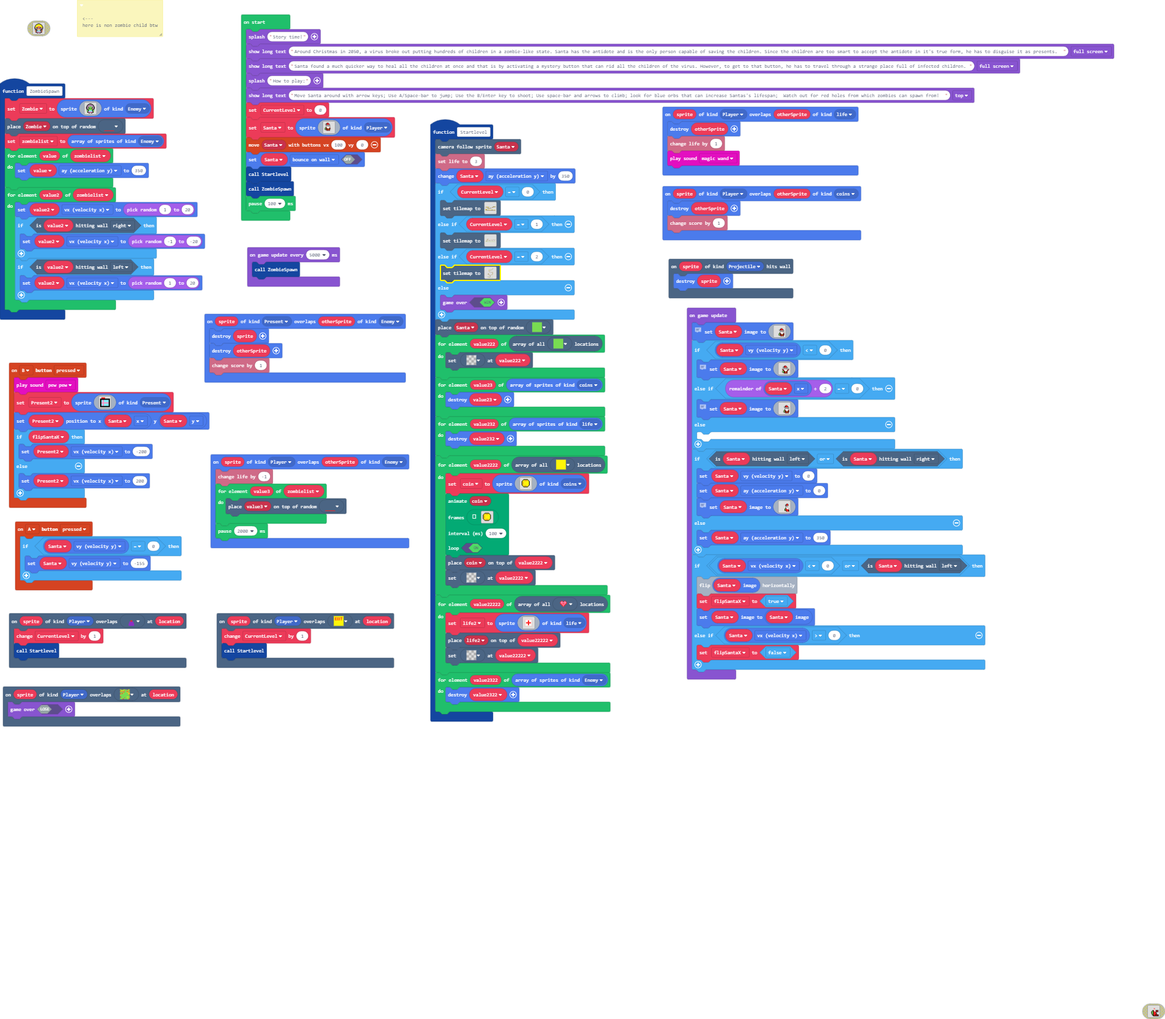
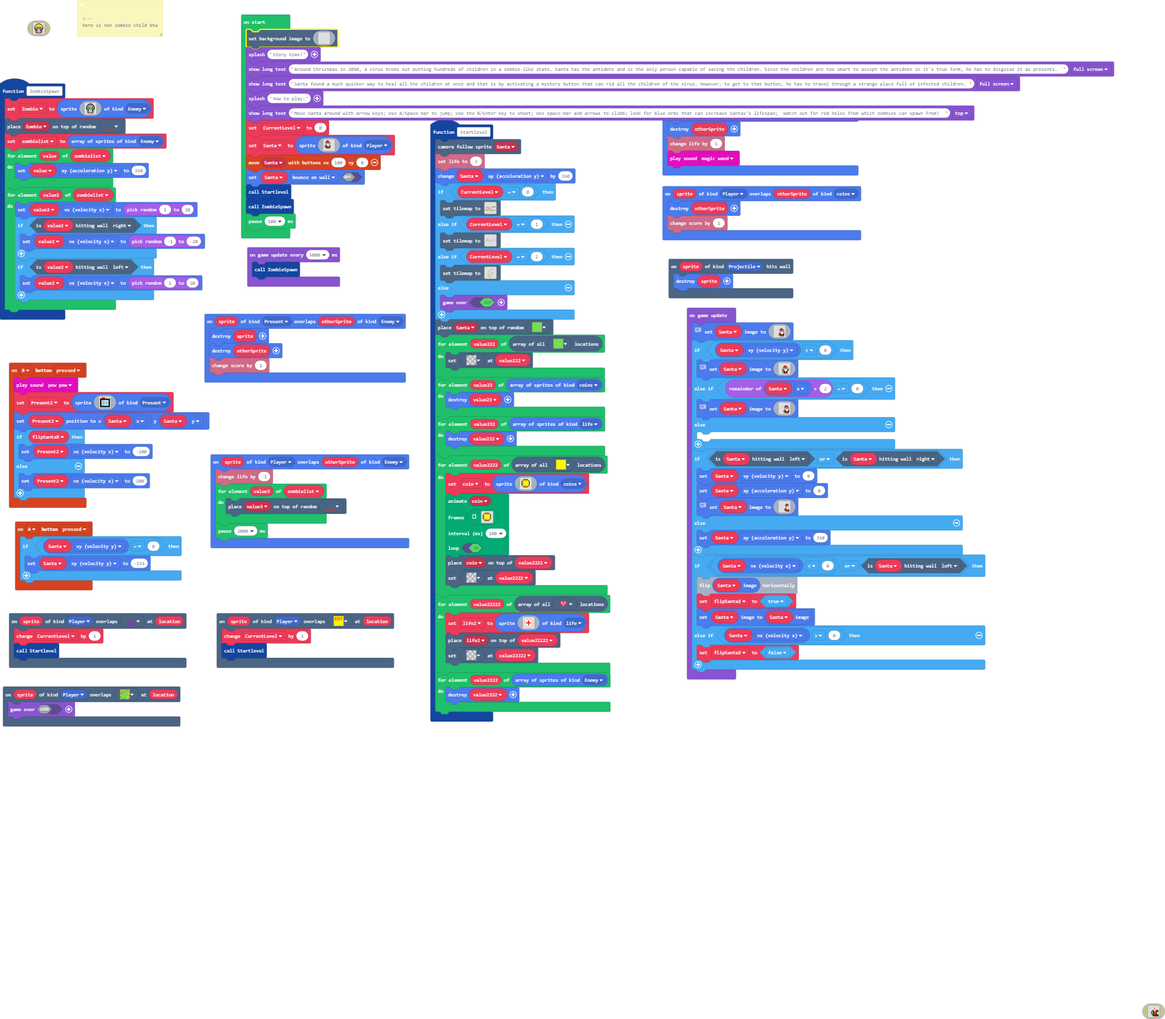
Update main.blocks, main.ts

Changed region(s): [[0.1856, 0.0312, 0.9591, 0.2494]]

diff --git a/main.ts b/main.ts
@@ -650,6 +650,128 @@ let zombielist: Sprite[] = []
 let Zombie: Sprite = null
 let Santa: Sprite = null
 let CurrentLevel = 0
+scene.setBackgroundImage(img`
+. . . . . . . . . . . . . . . . . . . . . . . . . . . . . . . . . . . . . . . . . . . . . . . . . . . . . . . . . . . . . . . . . . . . . . . . . . . . . . . . . . . . . . . . . . . . . . . . . . . . . . . . . . . . . . . . . . . . . . . . . . . . . . . . . . . . . . . . . . . . . . . . . . . . . . . . . . . . . . . . 
+. . . . . . . . . . . . . . . . . . . . . . . . . . . . . . . . . . . . . . . . . . . . . . . . . . . . . . . . . . . . . . . . . . . . . . . . . . . . . . . . . . . . . . . . . . . . . . . . . . . . . . . . . . . . . . . . . . . . . . . . . . . . . . . . . . . . . . . . . . . . . . . . . . . . . . . . . . . . . . . . 
+. . . . . . . . . . . . . . . . . . . . . . . . . . . . . . . . . . . . . . . . . . . . . . . . . . . . . . . . . . . . . . . . . . . . . . . . . . . . . . . . . . . . . . . . . . . . . . . . . . . . . . . . . . . . . . . . . . . . . . . . . . . . . . . . . . . . . . . . . . . . . . . . . . . . . . . . . . . . . . . . 
+. . . . . . . . . . . . . . . . . . . . . . . . . . . . . . . . . . . . . . . . . . . . . . . . . . . . . . . . . . . . . . . . . . . . . . . . . . . . . . . . . . . . . . . . . . . . . . . . . . . . . . . . . . . . . . . . . . . . . . . . . . . . . . . . . . . . . . . . . . . . . . . . . . . . . . . . . . . . . . . . 
+. . . . . . . . . . . . . . . . . . . . . . . . . . . 1 . . . . . . . . . . . . . . . . . . . . . . . . . . . . . . . . . . . . . . . . . . . . . . . . . . . . . . . . . . . . . . . . . . . . . . . . . . . . . . . . . . . . . . . . . . . . . . . . . . . . . . . . . . . . . . . . . . . . . . . . . . . . . . . . . . . . 
+. . . . . . . . . . . . . . . . . . . . . . . . . . . . . . . . . . . . . . . . . . . . . . . . . . . . . . . . . . . . . . . . . . . . . . . . . . . . . . . . . . . . . . . . . . . . . . . . . . . . . . . . . . . . . . . . . . . . . . . . . . . . . . . . . . . . . . . . . . . . . . . . . . . . . . . . . . . . . . . . 
+. . . . . . . . . . . . . . . . . . . . . . . . . . . . . . . . . . . . . . . . . . . . . . . . . . . . . . . . . . . . . . . . . . . . . . . . . . . . . . . . . . . . . . . . . . . . . . . . . . . . . . . . . . . . . . . . . . . . . . . . . . . . . . . . . . . . . . . . . . . . . . . . . . . . . . . . . . . . . . . . 
+. . . . . . . . . . . . . . . . . . . . . . . . . . . . . . . . . . . . . . . . . . . . . . . . . . . . . . . . . . . . . . . . . . . . . . . . . . . . . . . . . . . . . . . . . . . . . . . . . . . . . . . . . . . . . . . . . . . . . . . . . . . . . . . . . . . . . . . . . . . . . . . . . . . . . . . . . . . . . . . . 
+. . . . . . . . . . . . . . . . . . . . . . . . . . . . . . . . . . . . . . . . . . . . . . . . . . . . . . . . . . . . . . . . . . . . . . . . . . . . . . . . . . . . . . . . . . . . . . . . . . . . . . . . . . . 1 . . . . . . . . . . . . . . . . . . . . . . . . . . . . . . . . . . . . . . . . . . . . . . . . . . . . 
+. . . . . . . . . . . . . . . . . . . . . . . . . . . . . . . . . . . . . . . . . . . . . . . . . . . . . . . . . . . . . . . . . . . . . . . . . . . . . . . . . . . . . . . . . . . . . . . . . . . . . . . . . . . . . . . . . . . . . . . . . . . . . . . . . . . . . . . . . . . . . . . . . . . . . . . . . . . . . . . . 
+. . . . . . . . . . . . . . . . . . . . . . . . . . . . . . . . . . . . . . . . . . . . . . . . . . . . . . . . . . . . . . . . . . . . . . . . . . . . . . . . . . . . . . . . . . . . . . . . . . . . . . . . . . . . . . . . . . . . . . . . . . . . . . . . . . . . . . . . . . . . . . . . . . . . . . . . . . . . . . . . 
+. . . . . . . . . . . . . . . . . . . . . . . . . . . . . . . . . . . . . . . . . . . . . . . . . . . . . . . . . . . . . . . . . . . . . . . . . . . . . . . . . . . . . . . . . . . . . . . . . . . . . . . . . . . . . . . . . . . . . . . . . . . . . . . . . . . . . . . . . . . . . . . . . . . . . . . . . . . . . . . . 
+. . . . . . . . . . . . . . . . . . . . . . . . . . . . . . . . . . . . . . . . . . . . . . . . . . . . . . . . . . . . . . . . . . . . . . . . . . . . . . . . . . . . . . . . . . . . . . . . . . . . . . . . . . . . . . . . . . . . . . . . . . . . . . . . . . . . . . . . . . . . . . . . . . . . . . . . . . . . . . . . 
+. . . . . . . . . . . . . . . . . . . . . . . . . . . . . . . . . . . . . . . . . . . . . . . . . . . . . . . . . . . . . . . . . . . . . . . . . . . . . . . . . . . . . . . . . . . . . . . . . . . . . . . . . . . . . . . . . . . . . . . . . . . . . . . . . . . . . . . . . . . . . . . . . . . . . . . . 1 . . . . . . . 
+. . . . . . . . . . . . . . . . . . . . . . . . . . . . . . . . . . . . . . . . . . . . . . . . . . . . . . . . . . . . . . . . . . . . . . . . . . . . . . . . . . . . . . . . . . . . . . . . . . . . . . . . . . . . . . . . . . . . . . . . . . . . . . . . . . . . . . . . . . . . . . . . . . . . . . . . . . . . . . . . 
+. . . . . . . . . . . . . . . . . . . . . . . . . . . . . . . . . . . . . . . . . . . . . . . . . . . . . . . . . . . . . . . . . . . . . . . . . . . . . . . . . . . . . . . . . . . . . . . . . . . . . . . . . . . . . . . . . . . . . . . . . . . . . . . . . . . . . . . . . . . . . . . . . . . . . . . . . . . . . . . . 
+. . . . . . . . . . . . . . . . . . . . . . . . . . . . . . . . . . . . . . . . . . . . . . . . . . . . . . . . . . . . . . . . . . . . . . . . . . . . . . . . . . . . . . . . . . . . . . . . . . . . . . . . . . . . . . . . . . . . . . . . . . . . . . . . . . . . . . . . . . . . . . . . . . . . . . . . . . . . . . . . 
+. . . . . . . . . . . . . . . . . . . . . . . . . . . . . . . . . . . . . . . . . . . . . . . . . . . . . . . . . . . . . . . . . . . . . . . . . . . . . . . . . . . . . . . . . . . . . . . . . . . . . . . . . . . . . . . . . . . . . . . . . . . . . . . . . . . . . . . . . . . . . . . . . . . . . . . . . . . . . . . . 
+. . . . . . . . . . . . . . . . . . . . . . . . . . . . . . . . . . . . . . . . . . . . . . . . . . . . . . . . . . . . . . . . . . . . . . . . . . . . . . . . . . . . . . . . . . . . . . . . . . . . . . . . . . . . . . . . . . . . . . . . . . . . . . . . . . . . . . . . . . . . . . . . . . . . . . . . . . . . . . . . 
+. . . . . . . . . . . . . . . . . . . . . . . . . . . . . . . . . . . . . . . . . . . . . . . . . . . . . . . . . . . . . . . . . . . . . . 1 . . . . . . . . . . . . . . . . . . . . . . . . . . . . . . . . . . . . . . . . . . . . . . . . . . . . . . . . . . . . . . . . . . . . . . . . . . . . . . . . . . . . . . . . . 
+. . . . . . . . . . . . . . . . . . . . . . . . . . . . . . . . . . . . . . . . . . . . . . . . . . . . . . . . . . . . . . . . . . . . . . . . . . . . . . . . . . . . . . . . . . . . . . . . . . . . . . . . . . . . . . . . . . . . . . . . . . . . . . . . . . . . . . . . . . . . . . . . . . . . . . . . . . . . . . . . 
+. . . . . . . . . . . . . . . . . . . . . . . . . . . . . . . . . . . . . . . . . . . . . . . . . . . . . . . . . . . . . . . . . . . . . . . . . . . . . . . . . . . . . . . . . . . . . . . . . . . . . . . . . . . . . . . . . . . . . . . . . . . . . . . . . . . . . . . . . . . . . . . . . . . . . . . . . . . . . . . . 
+. . . . . . . . . . . . . . . . . . . . . . . . . . . . . . . . . . . . . . . . . . . . . . . . . . . . . . . . . . . . . . . . . . . . . . . . . . . . . . . . . . . . . . . . . . . . . . . . . . . . . . . . . . . . . . . . . . . . . . . . . . . . . . . . . . . . . . . . . . . . . . . . . . . . . . . . . . . . . . . . 
+. . . . . . . . . . . . . . . 1 . . . . . . . . . . . . . . . . . . . . . . . . . . . . . . . . . . . . . . . . . . . . . . . . . . . . . . . . . . . . . . . . . . . . . . . . . . . . . . . . . . . . . . . . . . . . . . . . . . . . . . . . . . . . . . . . . . . . . . . . . . . . . . . . . . . . . . . . . . . . . . . . 
+. . . . . . . . . . . . . . . . . . . . . . . . . . . . . . . . . . . . . . . . . . . . . . . . . . . . . . . . . . . . . . . . . . . . . . . . . . . . . . . . . . . . . . . . . . . . . . . . . . . . . . . . . . . . . . . . . . . . . . . . . . . . . . . . . . . . . . . . . . . . . . . . . . . . . . . . . . . . . . . . 
+. . . . . . . . . . . . . . . . . . . . . . . . . . . . . . . . . . . . . . . . . . . . . . . . . . . . . . . . . . . . . . . . . . . . . . . . . . . . . . . . . . . . . . . . . . . . . . . . . . . . . . . . . . . . . . . . . . . . . . . . . . . . . . . . . . . . . . . . . . . . . . . . . . . . . . . . . . . . . . . . 
+. . . . . . . . . . . . . . . . . . . . . . . . . . . . . . . . . . . . . . . . . . . . . . . . . . . . . . . . . . . . . . . . . . . . . . . . . . . . . . . . . . . . . . . . . . . . . . . . . . . . . . . . . . . . . . . . . . . . . . . . . . . . . . . . . . . . . . . . . . . . . . . . . . . . . . . . . . . . . . . . 
+. . . . . . . . . . . . . . . . . . . . . . . . . . . . . . . . . . . . . . . . . . . . . . . . . . . . . . . . . . . . . . . . . . . . . . . . . . . . . . . . . . . . . . . . . . . . . . . . . . . . . . . . . . . . . . . . . . . . . . . . . . . . . . . . . . . . . . . . . . . . . . . . . . . . . . . . . . . . . . . . 
+. . . . . . . . . . . . . . . . . . . . . . . . . . . . . . . . . . . . . . . . . . 1 . . . . . . . . . . . . . . . . . . . . . . . . . . . . . . . . . . . . . . . . . . . . . . . . . . . . . . . . . . . . . . . . . . . . . . . . . . . . . . . . . . . . . . . . . . . . . . . . . . . . . . . . . . . . . . . . . . . . . 
+. . . . . . . . . . . . . . . . . . . . . . . . . . . . . . . . . . . . . . . . . . . . . . . . . . . . . . . . . . . . . . . . . . . . . . . . . . . . . . . . . . . . . . . . . . . . . . . . . . . . . . . . . . . . . . . . . . . . . . . . . . . . . . . . . . . . . . . . . . . . . . . . . . . . . . . . . . . . . . . . 
+. . . . . . . . . . . . . . . . . . . . . . . . . . . . . . . . . . . . . . . . . . . . . . . . . . . . . . . . . . . . . . . . . . . . . . . . . . . . . . . . . . . . . . . . . . . . . . . . . . . . . . . . . . . . . . . . . . . . . . . . . . . . . . . . . . . . . . . . . . . . . . . . . . . . . . . . . . . . . . . . 
+. . . . . . . . . . . . . . . . . . . . . . . . . . . . . . . . . . . . . . . . . . . . . . . . . . . . . . . . . . . . . . . . . . . . . . . . . . . . . . . . . . . . . . . . . . . . . . . . . . . . . . . . . . . . . . . . . . . . . . . . . . . . . . . . . . . . . . . . . . . . . . . . . . . . . . . . . . . . . . . . 
+. . . . . . . . . . . . . . . . . . . . . . . . . . . . . . . . . . . . . . . . . . . . . . . . . . . . . . . . . . . . . . . . . . . . . . . . . . . . . . . . . . . . . . . . . . . . . . . . . . . . . . . . . . . . . . . . . . . . . . . . . . . . . . . . . . . . . . . . . . . . . . . . . . . . . . . . . . . . . . . . 
+. . . . . . . . . . . . . . . . . . . . . . . . . . . . . . . . . . . . . . . . . . . . . . . . . . . . . . . . . . . . . . . . . . . . . . . . . . . . . . . . . . . . . . . . . . . . . . . . . . . . . . . . . . . . . . . . . . . . . . . . . . . . . . . . . . . . . . . . . . . . . . . . . . . . . . . . . . . . . . . . 
+. . . . . . . . . . . . . . . . . . . . . . . . . . . . . . . . . . . . . . . . . . . . . . . . . . . . . . . . . . . . . . . . . . . . . . . . . . . . . . . . . . . . . . . . . . . . . . . . . . . . . . . . . . . . . . . . . . . . . . . . . . . . . . . . . . . . . . . . . . . . . . . . . . . . . . . . . . . . . . . . 
+. . . . . . . . . . . . . . . . . . . . . . . . . . . . . . . . . . . . . . . . . . . . . . . . . . . . . . . . . . . . . . . . . . . . . . . . . . . . . . . . . . . . . . . . . . . . . . . . . . . . . . . . . . . . . . . . . . . . . . . . . . . . . . . . . . . . . . . . . . . . . . . . . . . . . . . . . . . . . . . . 
+. . . . . . . . . . . . . . . . . . . . . . . . . . . . . . . . . . . . . . . . . . . . . . . . . . . . . . . . . . . . . . . . . . . . . . . . . . . . . . . . . . . . . . . . . . . . . . . . . . . . . . . . . . . . . . . . . . . . . . . . . . . . . . . . . . . . . . . . . . . . . . . . . . . . . . . . . . . . . . . . 
+. . . . . . . . . . . . . . . . . . . . . . . . . . . . . . . . . . . . . . . . . . . . . . . . . . . . . . . . . . . . . . . . . . . . . . . . . . . . . . . . . . . . . . . . . . . . . . . . . . . . . . . . . . . . . . . . . . . . 1 . . . . . . . . . . . . . . . . . . . . . . . . . . . . . . . . . . . . . . . . . . . 
+. . . . . . . . . . . . . . . . . . . . . . . . . . . . . . . . . . . . . . . . . . . . . . . . . . . . . . . . . . . . . . . . . . . . . . . . . . . . . . . . . . . . . . . . . . . . . . . . . . . . . . . . . . . . . . . . . . . . . . . . . . . . . . . . . . . . . . . . . . . . . . . . . . . . . . . . . . . . . . . . 
+. . . . . . . . . . . . . . . . . . . . . . . . . . . . . . . . . . . . . . . . . . . . . . . . . . . . . . . . . . . . . . . . . . . . . . . . . . . . . . . . . . . . . . . . . . . . . . . . . . . . . . . . . . . . . . . . . . . . . . . . . . . . . . . . . . . . . . . . . . . . . . . . . . . . . . . . . . . . . . . . 
+. . . . . . . . . . . . . . . . . . . . . . . . . . . . . . . . . . . . . . . . . . . . . . . . . . . . . . . . . . . . . . . . . . . . . . . . . . . . . . . . . . . . . . . . . . . . . . . . . . . . . . . . . . . . . . . . . . . . . . . . . . . . . . . . . . . . . . . . . . . . . . . . . . . . . . . . . . . . . . . . 
+. . . . . . . . . . . . . . . . . . . . . . . . . . . . . . . . . . . . . . . . . . . . . . . . . . . . . . . . . . . . . . . . . . . . . . . . . . . . . . . . . . . . . . . . . . . . . . . . . . . . . . . . . . . . . . . . . . . . . . . . . . . . . . . . . . . . . . . . . . . . . . . . . . . . . . . . . . . . . . . . 
+. . . . . . . . . . . . . . . . . . . . . . . . . . . . . . . . . . . . . . . . . . . . . . . . . . . . . . . . . . . . . . . . . . . . . 1 . . . . . . . . . . . . . . . . . . . . . . . . . . . . . . . . . . . . . . . . . . . . . . . . . . . . . . . . . . . . . . . . . . . . . . . . . . . . . . . . . . . . . . . . . . 
+. . . . . . . . . . . . . . . . . . . . . . . . . . . . . . . . . . . . . . . . . . . . . . . . . . . . . . . . . . . . . . . . . . . . . . . . . . . . . . . . . . . . . . . . . . . . . . . . . . . . . . . . . . . . . . . . . . . . . . . . . . . . . . . . . . . . . . . . . . . . . . . . . . . . . . . . . . . . . . . . 
+. . . . . . . . . . . . . . . . . . . . . . . . . . . . . . . . . . . . . . . . . . . . . . . . . . . . . . . . . . . . . . . . . . . . . . . . . . . . . . . . . . . . . . . . . . . . . . . . . . . . . . . . . . . . . . . . . . . . . . . . . . . . . . . . . . . . . . . . . . . . . . . . . . . . . . . . . . . . . . . . 
+. . . . . . . . . . . . . . . . . . . . . . . . . . . . . . . . . . . . . . . . . . . . . . . . . . . . . . . . . . . . . . . . . . . . . . . . . . . . . . . . . . . . . . . . . . . . . . . . . . . . . . . . . . . . . . . . . . . . . . . . . . . . . . . . . . . . . . . . . . . . . . . . . . . . . . . . . . . . . . . . 
+. . . . . . . . . . . . . . . . . . . . . . . . . . . . . . . . . . . . . . . . . . . . . . . . . . . . . . . . . . . . . . . . . . . . . . . . . . . . . . . . . . . . . . . . . . . . . . . . . . . . . . . . . . . . . . . . . . . . . . . . . . . . . . . . . . . . . . . . . . . . . . . . . . . . . . . . . . . . . . . . 
+. . . . . . . . . . . . . . . . . . . . . . . . . . . . . . . . . . . . . . . . . . . . . . . . . . . . . . . . . . . . . . . . . . . . . . . . . . . . . . . . . . . . . . . . . . . . . . . . . . . . . . . . . . . . . . . . . . . . . . . . . . . . . . . . . . . . . . . . . . . . . . . . . . . . . . . . . . . . . . . . 
+. . . . . . . . . . . . . . . . . . . . . . . . . . . . . . . . . . . . . . . . . . . . . . . . . . . . . . . . . . . . . . . . . . . . . . . . . . . . . . . . . . . . . . . . . . . . . . . . . . . . . . . . . . . . . . . . . . . . . . . . . . . . . . . . . . . . . . . . . . . . . . . . . . . . . . . . . . . . . . . . 
+. . . . . . . . . . . . . . . . . . . . . . . . . . . . . . . . . . . . . . . . . . . . . . . . . . . . . . . . . . . . . . . . . . . . . . . . . . . . . . . . . . . . . . . . . . . . . . . . . . . . . . . . . . . . . . . . . . . . . . . . . . . . . . . . . . . . . . . . . . . . . . . . . . . . . . . . . . . . . . . . 
+. . . . . . . . . . . . . . . . . . . . . . . . . . . . . . . . . . . . . . . . . . . . . . . . . . . . . . . . . . . . . . . . . . . . . . . . . . . . . . . . . . . . . . . . . . . . . . . . . . . . . . . . . . . . . . . . . . . . . . . . . . . . . . . . . . . . . . . . . . . . . . . . . . . . . . . . . . . . . . . . 
+. . . . . . . . . . . . . . . . . . . . . . . . . . . . . . . . . . . . . . . . . . . . . . . . . . . . . . . . . . . . . . . . . . . . . . . . . . . . . . . . . . . . . . . . . . . . . . . . . . . . . . . . . . . . . . . . . . . . . . . . . . . . . . . . . . . . . . . . . . . . . . . . . . . . . . . . . . . . . . . . 
+. . . . . . . . . . . . . . . . . . . . . . . . . . . . . . . . . . . . . . . . . . . . . . . . . . . . . . . . . . . . . . . . . . . . . . . . . . . . . . . . . . . . . . . . . . . . . . . . . . . . . . . . . . . . . . . . . . . . . . . . . . . . . . . . . . . . . . . . . . . . . . . . . . . . . . . . . . . . . . . . 
+. . 1 . . . . . . . . . . . . . . . . . . . . . . . . . . . . . . . . . . . . . . . . . . . . . . . . . . . . . . . . . . . . . . . . . . . . . . . . . . . . . . . . . . . . . . . . . . . . . . . . . . . . . . . . . . . . . . . . . . . . . . . . . . . . . . . . . . . . . . . . . . . . . . . . . . . . . . . . . . . . . 
+. . . . . . . . . . . . . . . . . . . . . . . . . . . . . . . . . . . . . . . . . . . . . . . . . . . . . . . . . . . . . . . . . . . . . . . . . . . . . . . . . . . . . . . . . . . . . . . . . . . . . . . . . . . . . . . . . . . . . . . . . . . . . . . . . . . . . . . . . . . . . . . . . . . . . . . . . . . . . . . . 
+. . . . . . . . . . . . . . . . . . . . . . . . . . . . . . . . . . . . . . . . . . . . . . . . . . . . . . . . . . . . . . . . . . . . . . . . . . . . . . . . . . . . . . . . . . . . . . . . . . . . . . . . . . . . . . . . . . . . . . . . . . . . . . . . . . . . . . . . . . . . . . . . . . . . . . . . . . . . . . . . 
+. . . . . . . . . . . . . . . . . . . . . . . . . . . . . . . . . . . . . . . . . . . . . . . . . . . . . . . . . . . . . . . . . . . . . . . . . . . . . . . . . . . . . . . . . . . . . . . . . . . . . . . . . . . . . . . . . . . . . . . . . . . . . . . . . . . . . . . . . . . . . . . . . . . . . . . . . . . . . . . . 
+. . . . . . . . . . . . . . . . . . . . . . . . . . . . . . . . . . . . . . . . . . . . . . . . . . . . . . . . . . . . . . . . . . . . . . . . . . . . . . . . . . . . . . . . . . . . . . . . . . . . . . . . . . . . . . . . . . . . . . . . . . . . . . . . . . . . . . . . . . . . . . . . . . . . . . . . . . . . . . . . 
+. . . . . . . . . . . . . . . . . . . . . . . . . . . . . . . . . . . . . . . . . . . . . . . . . . . . . . . . . . . . . . . . . . . . . . . . . . . . . . . . . . . . . . . . . . . . . . . . . . . . . . . . . . . . . . . . . . . . . . . . . . . . . . . . . . . . . . . . . . . . . . . . . . . . . . . . . . . . . . . . 
+. . . . . . . . . . . . . . . . . . . . . . . . . . . . . 1 . . . . . . . . . . . . . . . . . . . . . . . . . . . . . . . . . . . . . . . . . . . . . . . . . . . . . . . . . . . . . . . . . . . . . . . . . . . . . . . 1 . . . . . . . . . . . . . . . . . . . . . . . . . . . . . . . . . . . . . . . . . . . . . . . . . . 
+. . . . . . . . . . . . . . . . . . . . . . . . . . . . . . . . . . . . . . . . . . . . . . . . . . . . . . . . . . . . . . . . . . . . . . . . . . . . . . . . . . . . . . . . . . . . . . . . . . . . . . . . . . . . . . . . . . . . . . . . . . . . . . . . . . . . . . . . . . . . . . . . . . . . . . . . . . . . . . . . 
+. . . . . . . . . . . . . . . . . . . . . . . . . . . . . . . . . . . . . . . . . . . . . . . . . . . . . . . . . . . . 1 . . . . . . . . . . . . . . . . . . . . . . . . . . . . . . . . . . . . . . . . . . . . . . . . . . . . . . . . . . . . . . . . . . . . . . . . . . . . . . . . . . . . . . . . . . . . . . . . . . . 
+. . . . . . . . . . . . . . . . . . . . . . . . . . . . . . . . . . . . . . . . . . . . . . . . . . . . . . . . . . . . . . . . . . . . . . . . . . . . . . . . . . . . . . . . . . . . . . . . . . . . . . . . . . . . . . . . . . . . . . . . . . . . . . . . . . . . . . . . . . . . . . . . . . . . . . . . . . . . . . . . 
+. . . . . . . . . . . . . . . . . . . . . . . . . . . . . . . . . . . . . . . . . . . . . . . . . . . . . . . . . . . . . . . . . . . . . . . . . . . . . . . . . . . . . . . . . . . . . . . . . . . . . . . . . . . . . . . . . . . . . . . . . . . . . . . . . . . . . . . . . . . . . . . . . . . . . . . . . . . . . . . . 
+. . . . . . . . . . . . . . . . . . . . . . . . . . . . . . . . . . . . . . . . . . . . . . . . . . . . . . . . . . . . . . . . . . . . . . . . . . . . . . . . . . . . . . . . . . . . . . . . . . . . . . . . . . . . . . . . . . . . . . . . . . . . . . . . . . . . . . . . . . . . . . . . . . . . . . . . . . . . . . . . 
+. . . . . . . . . . . . . . . . . . . . . . . . . . . . . . . . . . . . . . . . . . . . . . . . . . . . . . . . . . . . . . . . . . . . . . . . . . . . . . . . . . . . . . . . . . . . . . . . . . . . . . . . . . . . . . . . . . . . . . . . . . . . . . . . . . . . . . . . . . . . . . . . . . . . . . . . . . . . . . . . 
+. . . . . . . . . . . . . . . . . . . . . . . . . . . . . . . . . . . . . . . . . . . . . . . . . . . . . . . . . . . . . . . . . . . . . . . . . . . . . . . . . . . . . . . . . . . . . . . . . . . . . . . . . . . . . . . . . . . . . . . . . . . . . . . . . . . . . . . . . . . . . . . . . . . . . . . . . . . . . . . . 
+. . . . . . . . . . . . . . . . . . . . . . . . . . . . . . . . . . . . . . . . . . . . . . . . . . . . . . . . . . . . . . . . . . . . . . . . . . . . . . . . . . . . . . . . . . . . . . . . . . . . . . . . . . . . . . . . . . . . . . . . . . . . . . . . . . . . . . . . . . . . . . . . . . . . . . . . . . . . . . . . 
+. . . . . . . . . . . . . . . . . . . . . . . . . . . . . . . . . . . . . . . . . . . . . . . . . . . . . . . . . . . . . . . . . . . . . . . . . . . . . . . . . . . . . . . . . . . . . . . . . . . . . . . . . . . . . . . . . . . . . . . . . . . . . . . . . . . . . . . . . . . . . . . . . . . . . . . . . . . . . . . . 
+. . . . . . . . . . . . . . . . . . . . . . . . . . . . . . . . . . . . . . . . . . . . . . . . . . . . . . . . . . . . . . . . . . . . . . . . . . . . . . . . . . . . . . . . . . . . . . . . . . . . . . . . . . . . . . . . . . . . . . . . . . . . . . . . . . . . . . . . . . . . . . . . . . . . . . . . . . . . . . . . 
+. . . . . . . . . . . . . . . . . . . . . . . . . . . . . . . . . . . . . . . . . . . . . . . . . . . . . . . . . . . . . . . . . . . . . . . . . . . . . . . . . . . . . . . . . . . . . . . . . . . . . . . . . . . . . . . . . . . . . . . . . . . . . . . . . . . . . . . . . . . . . . . . . . . . . . . . . . . . . . . . 
+. . . . . . . . . . . . . . . . . . . . . . . . . . . . . . . . . . . . . . . . . . . . . . . . . . . . . . . . . . . . . . . . . . . . . . . . . . . . . . . . . . . . . . . . . . . . . . . . . . . . . . . . . . . . . . . . . . . . . . . . . . . . . . . . . . . . . . . . . . . . . . . . . . . . . . . . . . . . . . . . 
+. . . . . . . . . . . . . . . . . . . . . . . . . . . . . . . . . . . . . . . . . . . . . . . . . . . . . . . . . . . . . . . . . . . . . . . . . . . . . . . . . . . . . . . . . . . . . . . . . . . . . . . . . . . . . . . . . . . . . . . . . . . . . . . . . . . . . . . . . . . . . . . . . . . . . . . . . . . . . . . . 
+. . . . . . . . . . . . . . . . . . . . . . . . . . . . . . . . . . . . . . . . . . . . . . . . . . . . . . . . . . . . . . . . . . . . . . . . . . . . . . . . . . . . . . . . . . . . . . . . . . . . . . . . . . . . . . . . . . . . . . . . . . . . . . . . . . . . . . . . . . . . . . . . . . . . . . . . . . . . . . . . 
+. . . . . . . . . . . . . . . . . . . . . . . . . . . . . . . . . . . . . . . . . . . . . . . . . . . . . . . . . . . . . . . . . . . . . . . . . . . . . . . . . . . . . . . . . . . . . . . . . . . . . . . . . . . . . . . . . . . . . . . . . . . . . . . . . . . . . . . . . . . . . . . . . . . . . . . . . . . . . . . . 
+. . . . . . . . . . . . . . . . . . . . . . . . . . . . . . . . . . . . . . . . . . . . . . . . . . . . . . . . . . . . . . . . . . . . . . . . . . . . . . . . . . . . . . . . . . . . . . . . . . . . . . . . . . . . . . . . . . . . . . . . . . . . . . . . . . . . . . . . . . . . . . . . . . . . . . . . . . . . . . . . 
+. . . . . . . . . . . . . . . . . . . . . . . . . . . . . . . . . . . . . . . . . . . . . . . . . . . . . . . . . . . . . . . . . . . . . . . . . . . . . . . . . . . . . . . . . . . . . . . . . . . . . . . . . . . . . . . . . . . . . . . . . . . . . . . . . . . . . . . . . . . . . 1 . . . . . . . . . . . . . . . . . . 
+. . . . . . . . . . . . . . . . . . . . . . . . . . . . . . . . . . . . . . . . . . . . . . . . . . . . . . . . . . . . . . . . . . . . . . . . . . . . . . . . . . . . . . . . . . . . . . . . . . . . . . . . . . . . . . . . . . . . . . . . . . . . . . . . . . . . . . . . . . . . . . . . . . . . . . . . . . . . . . . . 
+. . . . . . . . . . . . . . . . . . . . . . . . . . . . . . . . . . . . . . . . . . . . . . . . . . . . . . . . . . . . . . . . . . . . . . . . . . . . . . . . . . . . . . 1 . . . . . . . . . . . . . . . . . . . . . . . . . . . . . . . . . . . . . . . . . . . . . . . . . . . . . . . . . . . . . . . . . . . . . . . . . 
+. . . . . . . . . . . . . . . . . . . . . . . . . . . . . . . . . . . . . . . . . . . . . . . . . . . . . . . . . . . . . . . . . . . . . . . . . . . . . . . . . . . . . . . . . . . . . . . . . . . . . . . . . . . . . . . . . . . . . . . . . . . . . . . . . . . . . . . . . . . . . . . . . . . . . . . . . . . . . . . . 
+. . . . . . . . . . . . . . . . . . . . . . . . . . . . . . . . . . . . . . . . . . . . . . . . . . . . . . . . . . . . . . . . . . . . . . . . . . . . . . . . . . . . . . . . . . . . . . . . . . . . . . . . . . . . . . . . . . . . . . . . . . . . . . . . . . . . . . . . . . . . . . . . . . . . . . . . . . . . . . . . 
+. . . . . . . . . . . . . . . . . . . . . . . . . . . . . . . . . . . . . . . . . . . . . . . . . . . . . . . . . . . . . . . . . . . . . . . . . . . . . . . . . . . . . . . . . . . . . . . . . . . . . . . . . . . . . . . . . . . . . . . . . . . . . . . . . . . . . . . . . . . . . . . . . . . . . . . . . . . . . . . . 
+. . . . . . . . . . . . . . . . . . . . . . . . . . . . . . . . . . . . . . . . . . . . . . . . . . . . . . . . . . . . . . . . . . . . . . . . . . . . . . . . . . . . . . . . . . . . . . . . . . . . . . . . . . . . . . . . . . . . . . . . . . . . . . . . . . . . . . . . . . . . . . . . . . . . . . . . . . . . . . . . 
+. . . . . . . . . . . . . . . . . . . . . . . . . . . . . . . . . . . . . . . . . . . . . . . . . . . . . . . . . . . . . . . . . . . . . . . . . . . . . . . . . . . . . . . . . . . . . . . . . . . . . . . . . . . . . . . . . . . . . . . . . . . . . . . . . . . . . . . . . . . . . . . . . . . . . . . . . . . . . . . . 
+. . . . . . . . . . . . . . . . . . . . . . . . . . . . . . . . . . . . . . . . . . . . . . . . . . . . . . . . . . . . . . . . . . . . . . . . . . . . . . . . . . . . . . . . . . . . . . . . . . . . . . . . . . . . . . . . . . . . . . . . . . . . . . . . . . . . . . . . . . . . . . . . . . . . . . . . . . . . . . . . 
+. . . . . . . . . . . . . . . . . . . . . . . . . . . . . . . . . . . . 1 . . . . . . . . . . . . . . . . . . . . . . . . . . . . . . . . . . . . . . . . . . . . . . . . . . . . . . . . . . . . . . . . . . . . . . . . . . . . . . . . . . . . . . . . . . . . . . . . . . . . . . . . . . . . . . . . . . . . . . . . . . . 
+. . . . . . . . . . . . . . . . . . . . . . . . . . . . . . . . . . . . . . . . . . . . . . . . . . . . . . . . . . . . . . . . . . . . . . . . . . . . . . . . . . . . . . . . . . . . . . . . . . . . . . . . . . . . . 1 . . . . . . . . . . . . . . . . . . . . . . . . . . . . . . . . . . . . . . . . . . . . . . . . . . 
+. . . . . . . . . . . . . . . . . . . . . . . . . . . . . . . . . . . . . . . . . . . . . . . . . . . . . . . . . . . . . . . . . . . . . . . . . . . . . . . . . . . . . . . . . . . . . . . . . . . . . . . . . . . . . . . . . . . . . . . . . . . . . . . . . . . . . . . . . . . . . . . . . . . . . . . . . . . . . . . . 
+. . . . . . . . . . . . . . . . . . . . . . . . . . . . . . . . . . . . . . . . . . . . . . . . . . . . . . . . . . . . . . . . . . . . . . . . . . . . . . . . . . . . . . . . . . . . . . . . . . . . . . . . . . . . . . . . . . . . . . . . . . . . . . . . . . . . . . . . . . . . . . . . . . . . . . . . . . . . . . . . 
+. . . . . . . . . . . . . . . . . . . . . . . . . . . . . . . . . . . . . . . . . . . . . . . . . . . . . . . . . . . . . . . . . . . . . . . . . . . . . . . . . . . . . . . . . . . . . . . . . . . . . . . . . . . . . . . . . . . . . . . . . . . . . . . . . . . . . . . . . . . . . . . . . . . . . . . . . . . . . . . . 
+. . . . . . . . . . . . . . . . . . . . . . . . . . . . . . . . . . . . . . . . . . . . . . . . . . . . . . . . . . . . . . . . . . . . . . . . . . . . . . . . . . . . . . . . . . . . . . . . . . . . . . . . . . . . . . . . . . . . . . . . . . . . . . . . . . . . . . . . . . . . . . . . . . . . . . . . . . . . . . . . 
+. . . . . . . . . . . . . . . . . . . . . . . . . . . . . . . . . . . . . . . . . . . . . . . . . . . . . . . . . . . . . . . . . . . . . . . . . . . . . . . . . . . . . . . . . . . . . . . . . . . . . . . . . . . . . . . . . . . . . . . . . . . . . . . . . . . . . . . . . . . . . . . . . . . . . . . . . . . . . . . . 
+. . . . . . . . . . . . . . . . . . . . . . . . . . . . . . . . . . . . . . . . . . . . . . . . . . . . . . . . . . . . . . . . . . . . . . . . . . . . . . . . . . . . . . . . . . . . . . . . . . . . . . . . . . . . . . . . . . . . . . . . . . . . . . . . . . . . . . . . . . . . . . . . . . . . . . . . . . . . . . . . 
+. . . . . . . . . . . . . . . . . . . . . . . . . . . . . . . . . . . . . . . . . . . . . . . . . . . . . . . . . . . . . . . . . . . . . . . . . . . . . . . . . . . . . . . . . . . . . . . . . . . . . . . . . . . . . . . . . . . . . . . . . . . . . . . . . . . . . . . . . . . . . . . . . . . . . . . . . . . . . . . . 
+. . . . . . . . . . . . . . . . . . . . . . . . . . . . . . . . . . . . . . . . . . . . . . . . . . . . . . . . . . . . . . . . . . . . . . . . . . . . . . . . . . . . . . . . . . . . . . . . . . . . . . . . . . . . . . . . . . . . . . . . . . . . . . . . . . . . . . . . . . . . . . . . . . . . . . . . . . . . . . . . 
+. . . . . . . . . . . . . . . . . . . . . . . . . . . . . . . . . . . . . . . . . . . . . . . . . . . . . . . . . . . . . . . . . . . . . . . . . . . . . . . . . . . . . . . . . . . . . . . . . . . . . . . . . . . . . . . . . . . . . . . . . . . . . . . . . . . . . . . . . . . . . . . . . . . . . . . . . . . . . . . . 
+. . . . . . . . . . . . . . . . . . . . . . . . . . . . . . . . . . . . . . . . . . . . . . . . . . . . . . . . . . . . . . . . . . . . . . . . . . . . . . . . . . . . . . . . . . . . . . . . . . . . . . . . . . . . . . . . . . . . . . . . . . . . . . . . . . . . . . . . . . . . . . . . . . . . . . . . . . . . . . . . 
+. . . . . . . . . . . . . . . . . . . . . . . . . . . . . . . . . . . . . . . . . . . . . . . . . . . . . . . . . . . . . . . . . . . . . . . . . . . . . . . . . . . . . . . . . . . . . . . . . . . . . . . . . . . . . . . . . . . . . . . . . . . . . . . . . . . . . . . . . . . . . . . . . . . . . . . . . . . . . . . . 
+. . . . . . . . . . . . . . . . . . . . . . . . . . . . . . . . . . . . . . . . . . . . . . . . . . . . . . . . . . . . . . . . . . . . . . . . . . . . . . . . . . . . . . . . . . . . . . . . . . . . . . . . . . . . . . . . . . . . . . . . . . . . . . . . . . . . . . . . . . . . . . . . . . . . . . . . . . . . . . . . 
+. . . . . . . . . . . . . . . . . . . . . . . . . . . . . . . . . . . . . . . . . . . . . . . . . . . . . . . . . . . . . . . . . . . . . . . . . . . . . . . . . . . . . . . . . . . . . . . . . . . . . . . . . . . . . . . . . . . . . . . . . . . . . . . . . . . . . . . . . . . . 1 . . . . . . . . . . . . . . . . . . . 
+. . . . . . . . . . . . . . . . . . . . . . . . . . . . . . . . . . . . . . . . . . . . . . . . . . . . . . . . . . . . . . . . . . . . . . . . . . . . . . . . . . . . . . . . . . . . . . . . . . . . . . . . . . . . . . . . . . . . . . . . . . . . . . . . . . . . . . . . . . . . . . . . . . . . . . . . . . . . . . . . 
+. . . . . . . . . . 1 . . . . . . . . . . . . . . . . . . . . . . . . . . . . . . . . . . . . . . . . . . . . . . . . . . . . . . . . . . . . . . . . . . . . . . . . . . . . . . . . . . . . . . . . . . . . . . . . . . . . . . . . . . . . . . . . . . . . . . . . . . . . . . . . . . . . . . . . . . . . . . . . . . . . . 
+. . . . . . . . . . . . . . . . . . . . . . . . . . . . . . . . . . . . . . . . . . . . . . . . . . . . . . . . . . . . . . . . . . . . . . . . . . . . . . . . . . . . . . . . . . . . . . . . . . . . . . . . . . . . . . . . . . . . . . . . . . . . . . . . . . . . . . . . . . . . . . . . . . . . . . . . . . . . . . . . 
+. . . . . . . . . . . . . . . . . . . . . . . . . . . . . . . . . . . . . . . . . . . . . . . . . . . . . . . . . . . . . . . . . . . 1 . . . . . . . . . . . . . . . . . . . . . . . . . . . . . . . . . . . . . . . . . . . . . . . . . . . . . . . . . . . . . . . . . . . . . . . . . . . . . . . . . . . . . . . . . . . . 
+. . . . . . . . . . . . . . . . . . . . . . . . . . . . . . . . . . . . . . . . . . . . . . . . . . . . . . . . . . . . . . . . . . . . . . . . . . . . . . . . . . . . . . . . . . . . . . . . . . . . . . . . . . . . . . . . . . . . . . . . . . . . . . . . . . . . . . . . . . . . . . . . . . . . . . . . . . . . . . . . 
+. . . . . . . . . . . . . . . . . . . . . . . . . . . . . . . . . . . . . . . . . . . . . . . . . . . . . . . . . . . . . . . . . . . . . . . . . . . . . . . . . . . . . . . . . . . . . . . . . . . . . . . . . . . . . . . . . . . . . . . . . . . . . . . . . . . . . . . . . . . . . . . . . . . . . . . . . . . . . . . . 
+. . . . . . . . . . . . . . . . . . . . . . . . . . . . . . . . . . . . . . . . . . . . . . . . . . . . . . . . . . . . . . . . . . . . . . . . . . . . . . . . . . . . . . . . . . . . . . . . . . . . . . . . . . . . . . . . . . . . . . . . . . . . . . . . . . . . . . . . . . . . . . . . . . . . . . . . . . . . . . . . 
+. . . . . . . . . . . . . . . . . . . . . . . . . . . . . . . . . . . 1 . . . . . . . . . . . . . . . . . . . . . . . . . . . . . . . . . . . . . . . . . . . . . . . . . . . . . . . . . . . . . . . . . . . . . . . . . . . . . . . . . . . . . . . . . . . . . . . . . . . . . . . . . . . . . . . . . . . . . . . . . . . . 
+. . . . . . . . . . . . . . . . . . . . . . . . . . . . . . . . . . . . . . . . . . . . . . . . . . . . . . . . . . . . . . . . . . . . . . . . . . . . . . . . . . . . . . . . . . . . . . . . . . . . . . . . . . . . . . . . . . . . . . . . . . . . . . . . . . . . . . . . . . . . . . . . . . . . . . . . . . . . . . . . 
+. . . . . . . . . . . . . . . . . . . . . . . . . . . . . . . . . . . . . . . . . . . . . . . . . . . . . . . . . . . . . . . . . . . . . . . . . . . . . . . . . . . . . . . . . . . . . . . . . . . . . . . . . . . . . . . . . . . . . . . . . . . . . . . . . . . . . . . . . . . . . . . . . . . . . . . . . . . . . . . . 
+. . . . . . . . . . . . . . . . . . . . . . . . . . . . . . . . . . . . . . . . . . . . . . . . . . . . . . . . . . . . . . . . . . . . . . . . . . . . . . . . . . . . . . . . . . . . . . . . . . . . . . . . . . . . . . . . . . . . . . . . . . . . . . . . . . . . . . . . . . . . . . . . . . . . . . . . . . . . . . . . 
+. . . . . . . . . . . . . . . . . . . . . . . . . . . . . . . . . . . . . . . . . . . . . . . . . . . . . . . . . . . . . . . . . . . . . . . . . . . . . . . . . . . . . . . . . . . . . . . . . . . . . . . . . . . . . . . . . . . . . . . . . . . . . . . . . . . . . . . . . . . . . . . . . . . . . . . . . . . . . . . . 
+. . . . . . . . . . . . . . . . . . . . . . . . . . . . . . . . . . . . . . . . . . . . . . . . . . . . . . . . . . . . . . . . . . . . . . . . . . . . . . . . . . . . . . . . . . . . . . . . . . . . . . . . . . . . . . . . . . . . . . . . . . . . . . . . . . . . . . . . . . . . . . . . . . . . . . . . . . . . . . . . 
+. . . . . . . . . . . . . . . . . . . . . . . . . . . . . . . . . . . . . . . . . . . . . . . . . . . . . . . . . . . . . . . . . . . . . . . . . . . . . . . . . . . . . . . . . . . . . . . . . . . . . . . . . . . . . . . . . . . . . . . . . . . . . . . . . . . . . . . . . . . . . . . . . . . . . . . . . . . . . . . . 
+. . . . . . . . . . . . . . . . . . . . . . . . . . . . . . . . . . . . . . . . . . . . . . . . . . . . . . . . . . . . . . . . . . . . . . . . . . . . . . . . . . . . . . . . . . . . . . . . . . . . . . . . . . . . . . . . . . . . . . . 1 . . . . . . . . . . . . . . . . . . . . . . . . . . . . . . . . . . . . . . . . 
+. . . . . . . . . . . . . . . . . . . . . . . . . . . . . . . . . . . . . . . . . . . . . . . . . . . . . . . . . . . . . . . . . . . . . . . . . . . . . . . . . . . . . . . . . . . . . . . . . . . . . . . . . . . . . . . . . . . . . . . . . . . . . . . . . . . . . . . . . . . . . . . . . . . . . . . . . . . . . . . . 
+. . . . . . . . . . . . . . . . . . . . . . . . . . . . . . . . . . . . . . . . . . . . . . . . . . . . . . . . . . . . . . . . . . . . . . . . . . . . . . . . . . . . . . . . . . . . . . . . . . . . . . . . . . . . . . . . . . . . . . . . . . . . . . . . . . . . . . . . . . . . . . . . . . . . . . . . . . . . . . . . 
+. . . . . . . . . . . . . . . . . . . . . . . . . . . . . . . . . . . . . . . . . . . . . . . . . . . . . . . . . . . . . . . . . . . . . . . . . . . . . . . . . . . . . . . . . . . . . . . . . . . . . . . . . . . . . . . . . . . . . . . . . . . . . . . . . . . . . . . . . . . . . . . . . . . . . . . . . . . . . . . . 
+. . . . . . . . . . . . . . . . . . . . . . . . . . . . . . . . . . . . . . . . . . . . . . . . . . . . . . . . . . . . . . . . . . . . . . . . . . . . . . . . . . . . . . . . . . . . . . . . . . . . . . . . . . . . . . . . . . . . . . . . . . . . . . . . . . . . . . . . . . . . . . . . . . . . . . . . . . . . . . . . 
+. . . . . . . . . . . . . . . . . . . . . . . . . . . . . . . . . . . . . . . . . . . . . . . . . . . . . . . . . . . . . . . . . . . . . . . . . . . . . . . . . . . . . . . . . . . . . . . . . . . . . . . . . . . . . . . . . . . . . . . . . . . . . . . . . . . . . . . . . . . . . . . . . . . . . . . . . . . . . . . . 
+`)
 game.splash("Story time!")
 game.showLongText("Around Christmas in 2050, a virus broke out putting hundreds of children in a zombie-like state. Santa has the antidote and is the only person capable of saving the children. Since the children are too smart to accept the antidote in it's true form, he has to disguise it as presents.  ", DialogLayout.Full)
 game.showLongText("Santa found a much quicker way to heal all the children at once and that is by activating a mystery button that can rid all the children of the virus. However, to get to that button, he has to travel through a strange place full of infected children. ", DialogLayout.Full)
